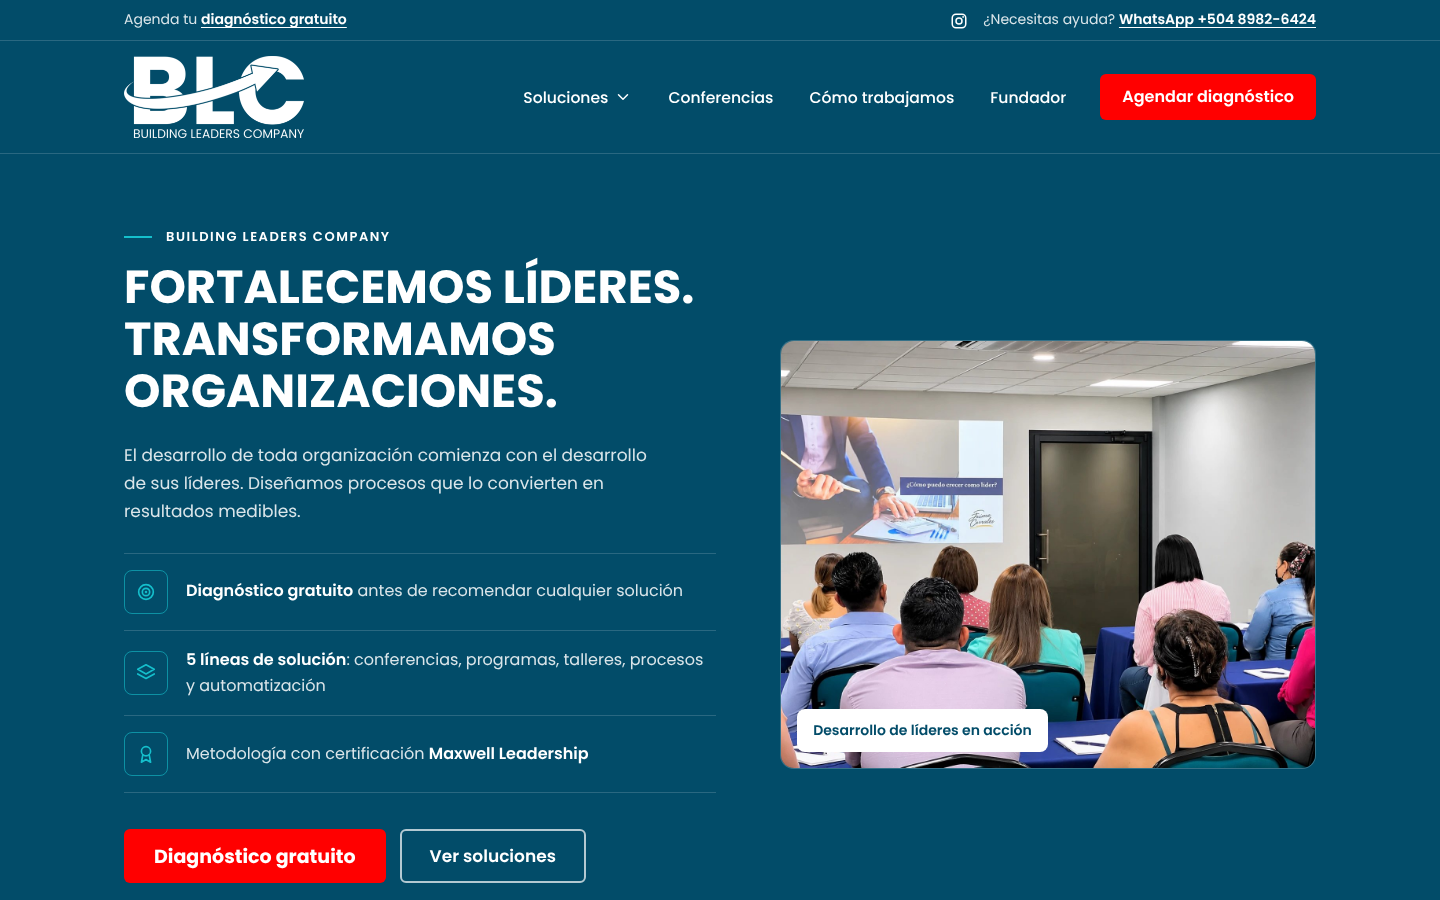
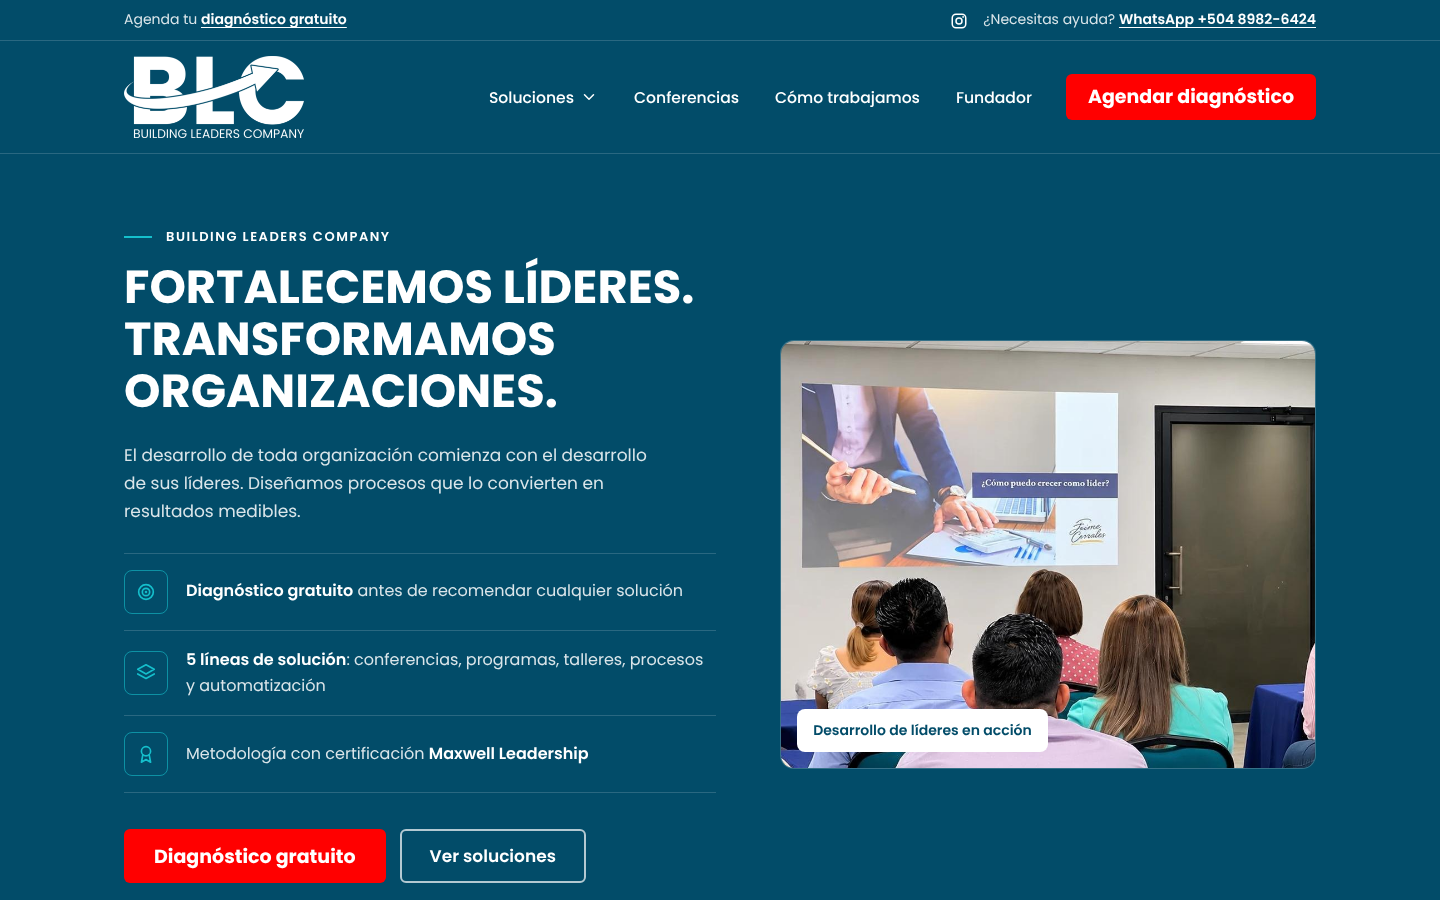
Recorta la foto de portada del inicio y quita con Jaime Corrales en Conferencias
- sesion-liderazgo.jpg recortada para que no aparezca la participante de espaldas
- Portada de Conferencias sin el subtítulo con Jaime Corrales; etiqueta BLC

Claude-Session: https://claude.ai/code/session_01WCj9xs9Gz3GYaHb4eT4hNZ

Changed region(s): [[0.5312, 0.3733, 0.9375, 0.8711], [0.3438, 0.0622, 0.9062, 0.1556]]

diff --git a/src/index.html b/src/index.html
@@ -63,7 +63,7 @@
           </div>
         </div>
         <figure class="hero-media photo-slot photo-slot--dark">
-          <img src="/assets/fotos/sesion-liderazgo.jpg" alt="Participantes sentados frente a una proyección que pregunta “¿Cómo puedo crecer como líder?”" width="1448" height="1086" onerror="this.remove()">
+          <img src="/assets/fotos/sesion-liderazgo.jpg" alt="Participantes sentados frente a una proyección que pregunta “¿Cómo puedo crecer como líder?”" width="960" height="768" onerror="this.remove()">
           <span>Foto de una sesión de BLC<br><small>assets/fotos/sesion-liderazgo.jpg</small></span>
           <figcaption class="media-tag">Desarrollo de líderes en acción</figcaption>
         </figure>

diff --git a/src/conferencias.html b/src/conferencias.html
@@ -28,9 +28,8 @@
     <section class="hero hero--dark hero--stage">
       <div class="container hero-grid">
         <div class="hero-copy">
-          <p class="kicker">Conferencista y Fundador de BLC</p>
+          <p class="kicker">Building Leaders Company</p>
           <h1>Conferencias de Alto Impacto</h1>
-          <p class="hero-sub">con Jaime Corrales</p>
           <p class="hero-lead">Experiencias diseñadas para inspirar decisiones, fortalecer el liderazgo y generar resultados sostenibles.</p>
           <div class="hero-actions">
             <a href="/diagnostico?solucion=conferencias" class="btn btn-primary">Agendar diagnóstico</a>

diff --git a/src/styles.css b/src/styles.css
@@ -404,7 +404,7 @@ a { color: var(--petroleo); text-underline-offset: .2em; }
 /* Par de fotos en "¿Por qué BLC?" */
 .photo-pair { display: grid; grid-template-columns: 1.7fr 1fr; gap: 20px; margin-bottom: 28px; }
 .photo-pair .photo-slot { height: 420px; }
-.photo-slot img[src*="sesion-liderazgo"] { object-position: 45% 50%; }
+.photo-slot img[src*="sesion-liderazgo"] { object-position: 50% 50%; }
 .photo-slot img[src*="taller-equipo"] { object-position: 60% 55%; }
 .photo-slot img[src*="sesion-sala"] { object-position: 50% 60%; }
 .photo-slot img[src*="jaime-perfil"] { object-position: 75% 20%; }
